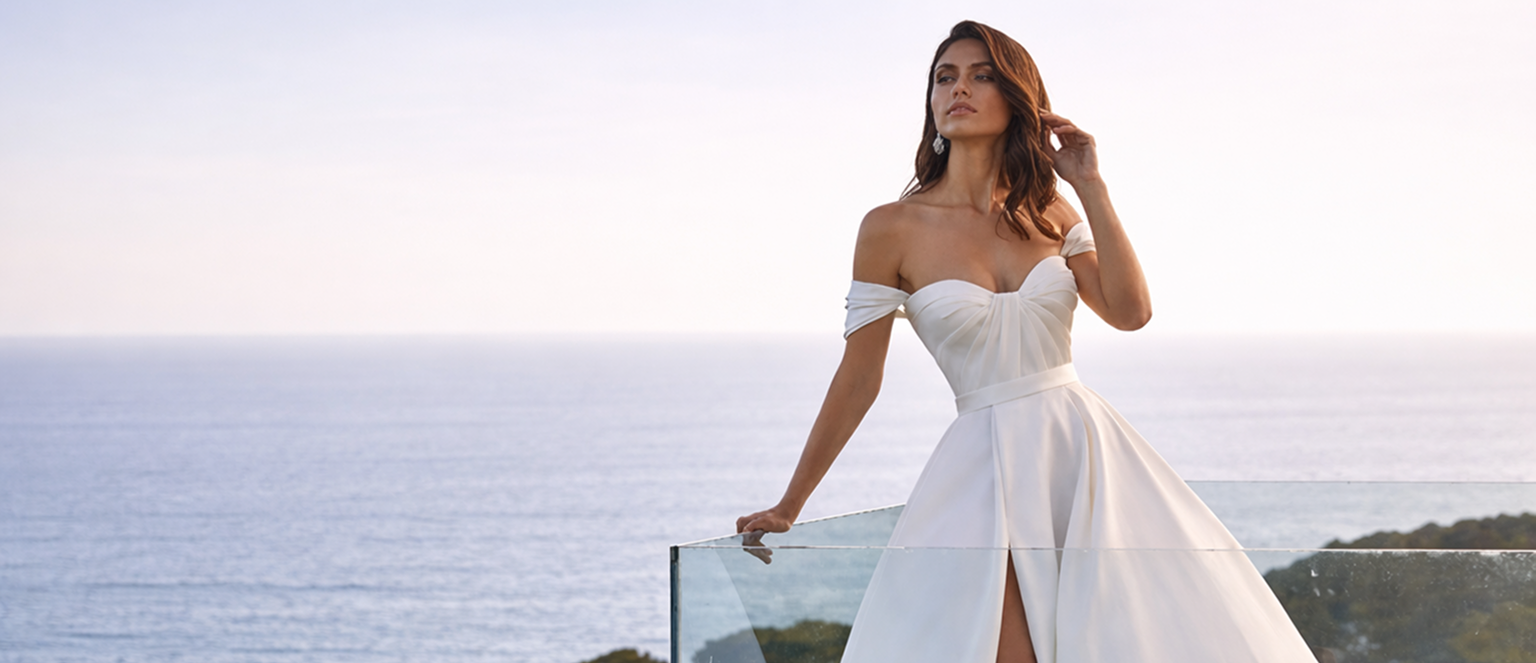
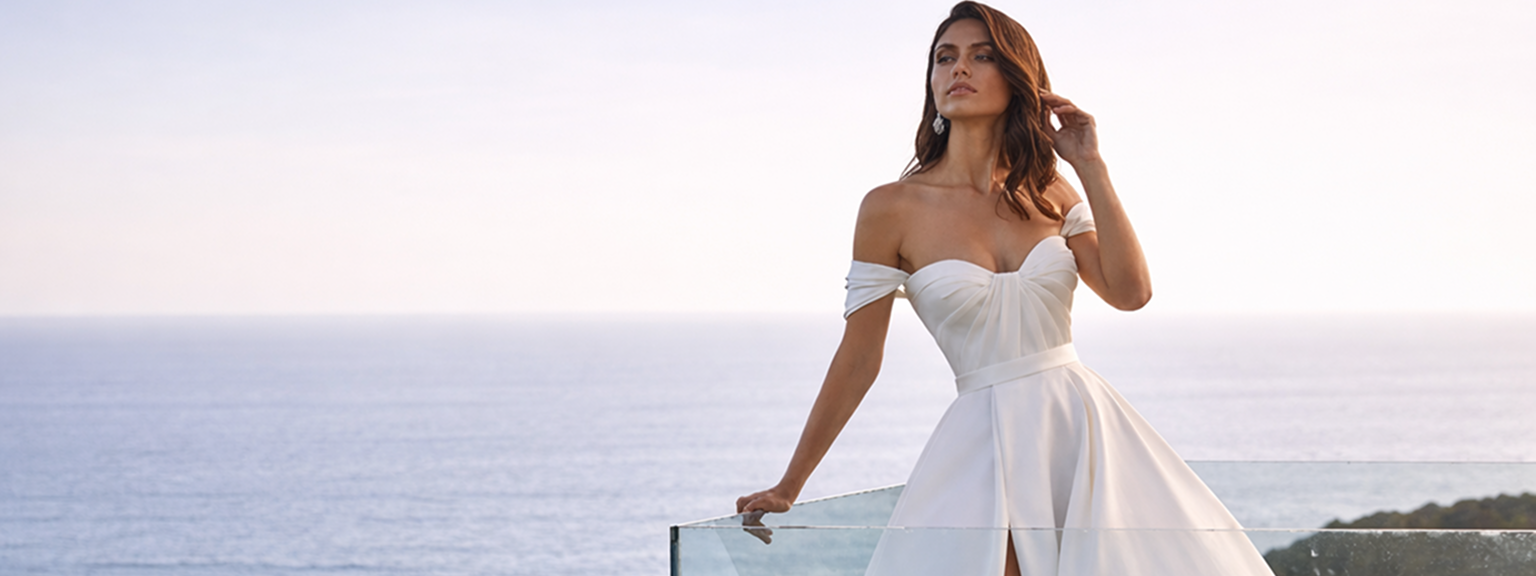
Feat: término de alterações no carrossel e começo do conteúdo da home #2

diff --git a/src/components/CarrosselComponent.vue b/src/components/CarrosselComponent.vue
@@ -79,50 +79,50 @@ setInterval(nextSlide, 4000)
 
 .marca1-noiva{
   position: absolute;
-  bottom: 64%;
-  right: 68%;
+  bottom: 73%;
+  right: 67%;
   color: rgb(255, 255, 255);
-  font-size: 2rem;
+  font-size: clamp(1.5vw, 1.5vw, 1.5vw);
   z-index: 2;
   font-family: "Noto Rashi Hebrew", serif;
   font-optical-sizing: auto;
   font-style: normal;
-  text-shadow: 3.5px 0px 5px #f9bc8a;
+  text-shadow: 0.2vw 0vw 0.2vw #f9bc8a;
 }
 
 .marca2-noiva{
   position: absolute;
-  bottom: 60%;
-  right: 71%;
+  bottom: 70%;
+  right: 69%;
   color: white;
-  font-size: 1.7rem;
+  font-size: clamp(1.3vw, 1.3vw, 1.3vw);
   z-index: 2;
   font-family: "Noto Rashi Hebrew", serif;
   font-optical-sizing: auto;
   font-style: normal;
-  text-shadow: 3.5px 0px 5px #f9bc8a;
+  text-shadow: 0.2vw 0vw 0.2vw #f9bc8a;
 }
 
 .texto-noiva {
   position: absolute;
-  bottom: 42%;
+  bottom: 52%;
   right: 50%;
   color: rgb(255, 244, 232);
-  font-size: 6rem;
+  font-size: clamp(6vw, 6vw, 6vw);
   z-index: 2;
   font-family: "Lexend Deca", sans-serif;
   font-optical-sizing: auto;
   font-style: normal;
-  letter-spacing: 4px;
-  text-shadow: 0px 4px 20px #f8ceac;
+  letter-spacing: 0.2vw;
+  text-shadow: 0vw 0.2vw 1.5vw #f8ceac;
 }
 
 .subtexto-noiva{
   position: absolute;
-  bottom: 40%;
-  right: 58%;
+  bottom: 50%;
+  right: 57%;
   color: #e7d3c3;
-  font-size: 2rem;
+  font-size: clamp(2vw, 2vw, 2vw);
   z-index: 2;
   font-family: "Nanum Myeongjo", serif;
   font-weight: 400;
@@ -135,48 +135,48 @@ setInterval(nextSlide, 4000)
 
 .marca1-formanda{
   position: absolute;
-  bottom: 64%;
+  bottom: 73%;
   right: 67%;
   color: rgb(255, 255, 255);
-  font-size: 2rem;
+  font-size: clamp(1.5vw, 1.5vw, 1.5vw);
   z-index: 2;
   font-family: "Noto Rashi Hebrew", serif;
   font-optical-sizing: auto;
   font-style: normal;
-  text-shadow: 3.5px 0px 5px #8a8af9;
+  text-shadow: 0.2vw 0vw 0.2vw #8a8af9;
 }
 
 .marca2-formanda{
   position: absolute;
-  bottom: 60%;
-  right: 70%;
+  bottom: 70%;
+  right: 69%;
   color: white;
-  font-size: 1.7rem;
+  font-size: clamp(1.3vw, 1.3vw, 1.3vw);
   z-index: 2;
   font-family: "Noto Rashi Hebrew", serif;
   font-optical-sizing: auto;
   font-style: normal;
-  text-shadow: 3.5px 0px 5px #8a8af9;
+  text-shadow: 0.2vw 0vw 0.2vw #8a8af9;
 }
 
 .texto-formanda {
   position: absolute;
-  bottom: 42%;
+  bottom: 52%;
   right: 50%;
   color: #ffffff;
-  font-size: 6rem;
+  font-size: clamp(6vw, 6vw, 6vw);
   z-index: 2;
   font-family: 'Antic Didone', serif;
-  letter-spacing: 8px;
-  text-shadow: 0px 4px 20px #2736a5;
+  letter-spacing: 0.4vw;
+  text-shadow: 0vw 0.2vw 1.5vw #2736a5;
 }
 
 .subtexto-formanda{
   position: absolute;
-  bottom: 40%;
-  right: 62%;
-  color: #2e366e;
-  font-size: 2rem;
+  bottom: 50%;
+  right: 60%;
+  color: #3d4899;
+  font-size: clamp(2vw, 2vw, 2vw);
   z-index: 2;
   font-family: "Nanum Myeongjo", serif;
   font-weight: 400;
@@ -188,10 +188,10 @@ setInterval(nextSlide, 4000)
 =========================*/
 
 .carrossel-principal {
-  position: absolute;
-  width: 198vh;
+  position: relative;
+  width: 100vw;
+  height: 100vh;
   max-width: 100%;
-  height: 90vh;
   margin: 0 auto;
   overflow: hidden;
   display: flex;
@@ -202,16 +202,23 @@ setInterval(nextSlide, 4000)
 .carrossel-principal::after {
   content: "";
   position: absolute;
-  inset: 0;
+  top: 50%;
+  left: 50%;
+  width: 100vw;
+  height: 80vh;
+  transform: translate(-50%, -63%);
   background: rgba(117, 67, 36, 0.317);
   z-index: 1;
 }
 
 img {
   position: absolute;
-  width: 195vh;
-  height: 95vh;
-  object-position: center -1vh;
+  top: 50%;
+  left: 50%;
+  width: 100vw;
+  height: 80vh;
+  object-fit: cover;
+  transform: translate(-50%, -63%);
   opacity: 0;
   transition: opacity 0.5s ease;
   z-index: 0;
@@ -223,7 +230,7 @@ img.active {
 
 button {
   position: absolute;
-  top: 50%;
+  top: 40%;
   transform: translateY(-50%);
   background: none;
   color: white;

diff --git a/src/components/HomeComponent.vue b/src/components/HomeComponent.vue
@@ -16,7 +16,17 @@ main{
   background-color: white;
 }
 
-.btn-grandes{
+.bnt-grandes {
   display: flex;
+}
+
+.madrinhas,
+.praia {
+  width: 50%;
+}
+
+.madrinhas img{
+  width: 70%;
+  border-radius: 2vw;
 }
 </style>